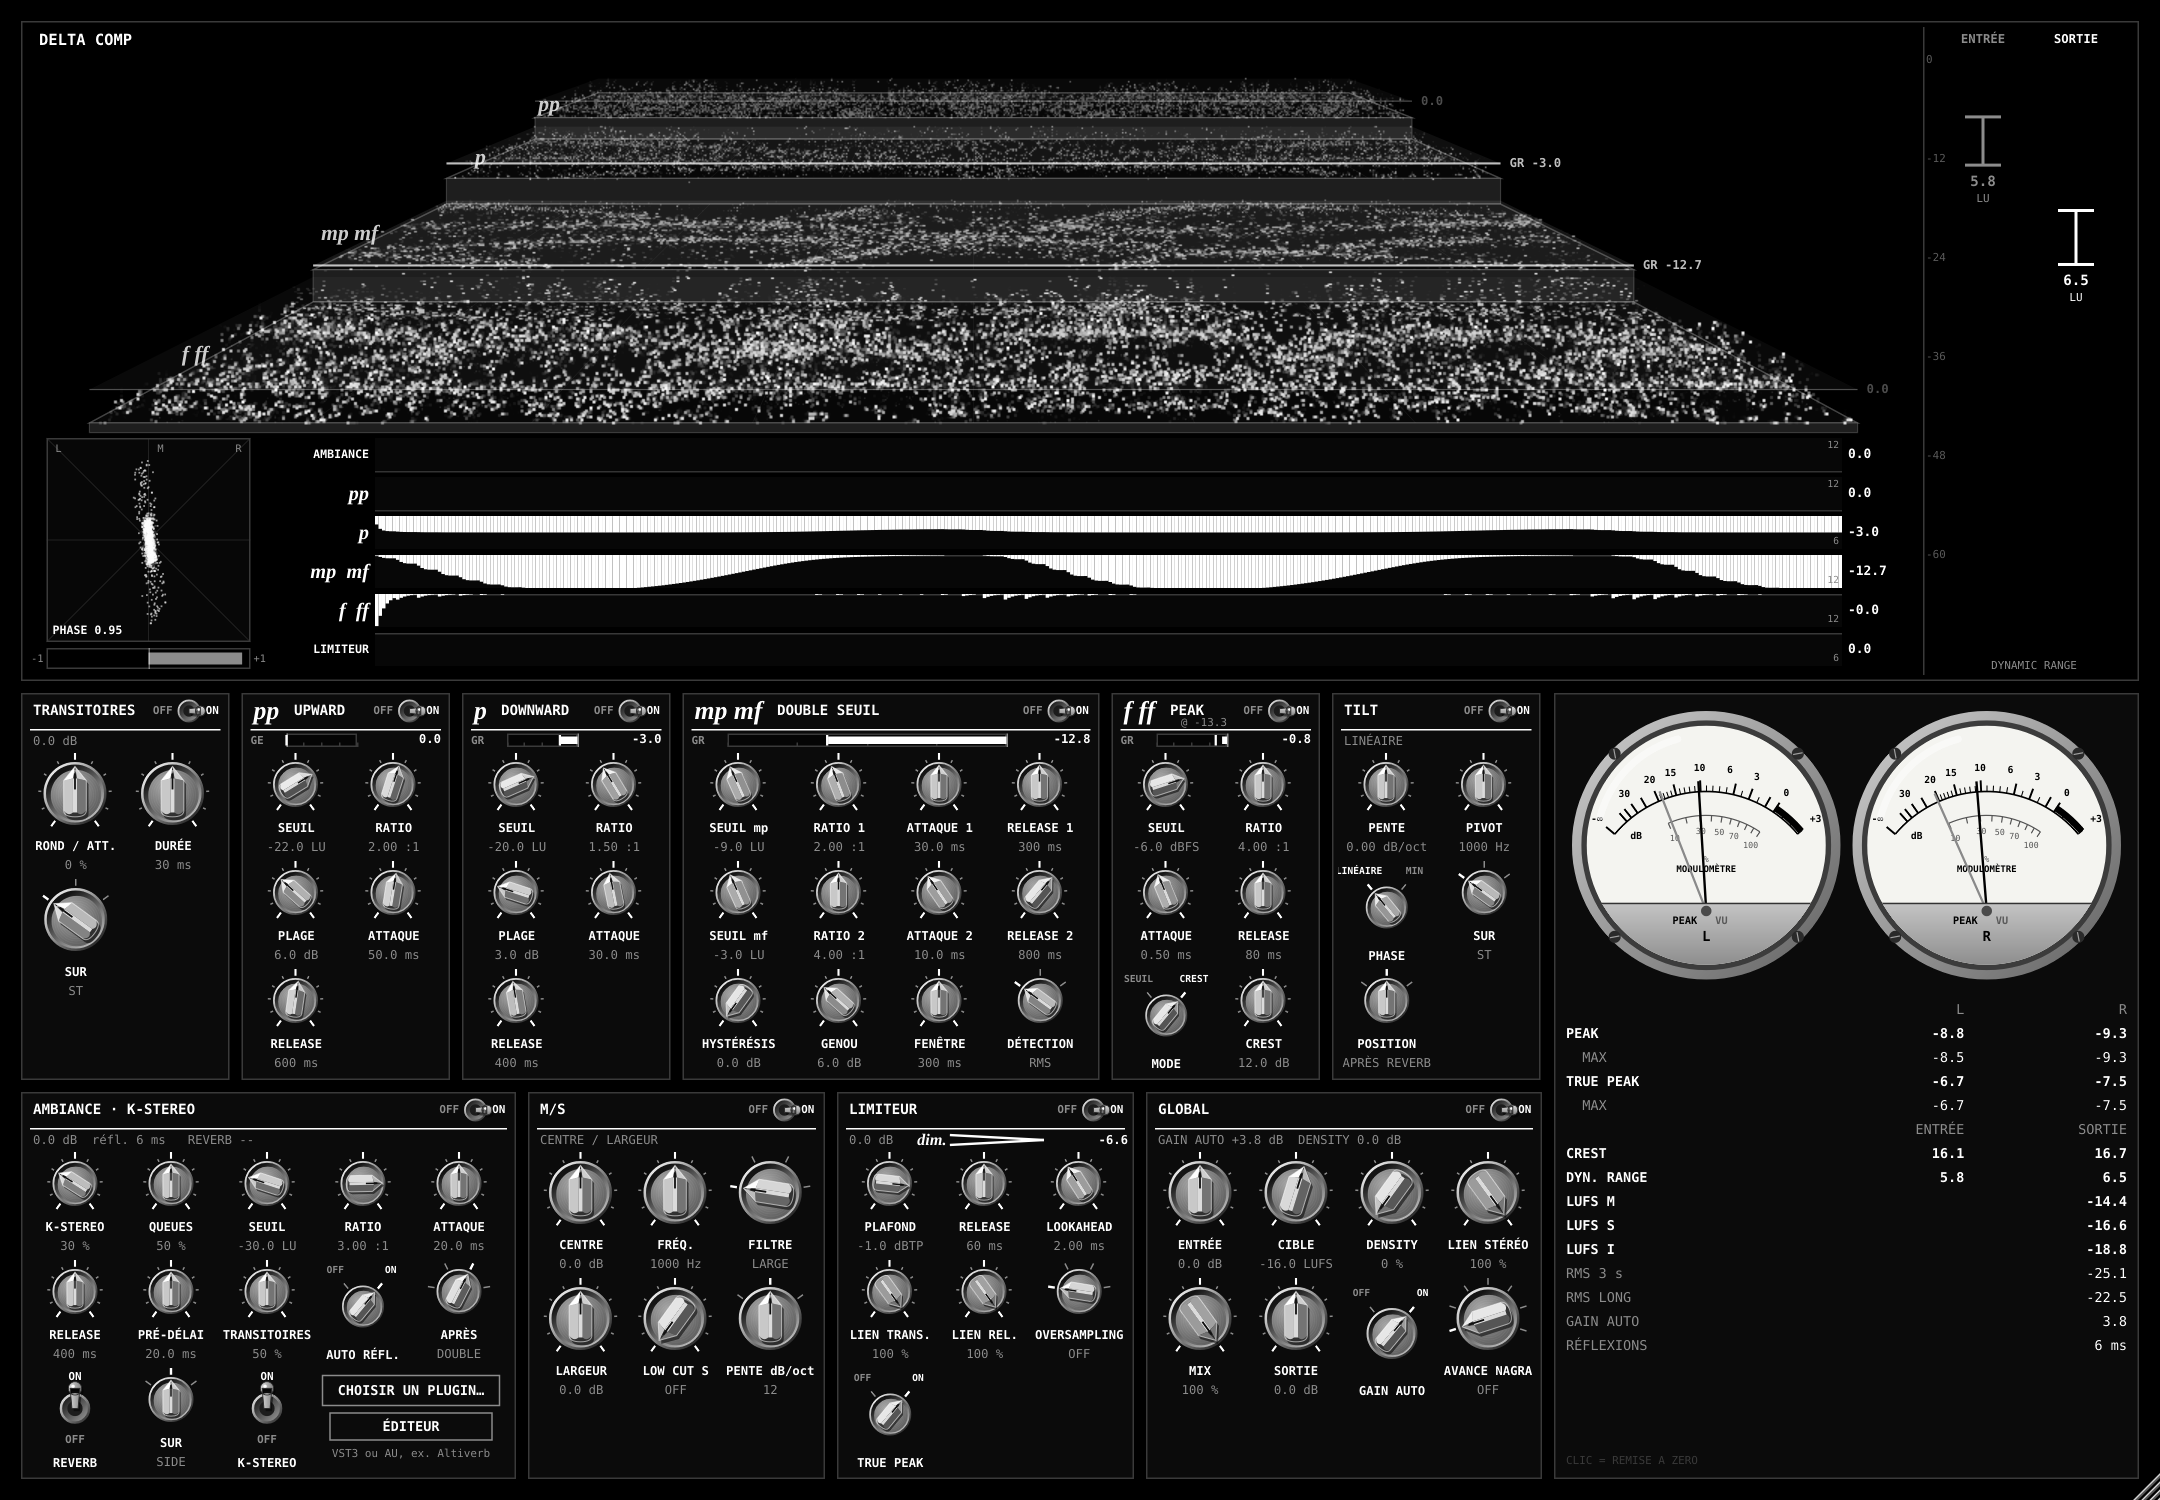
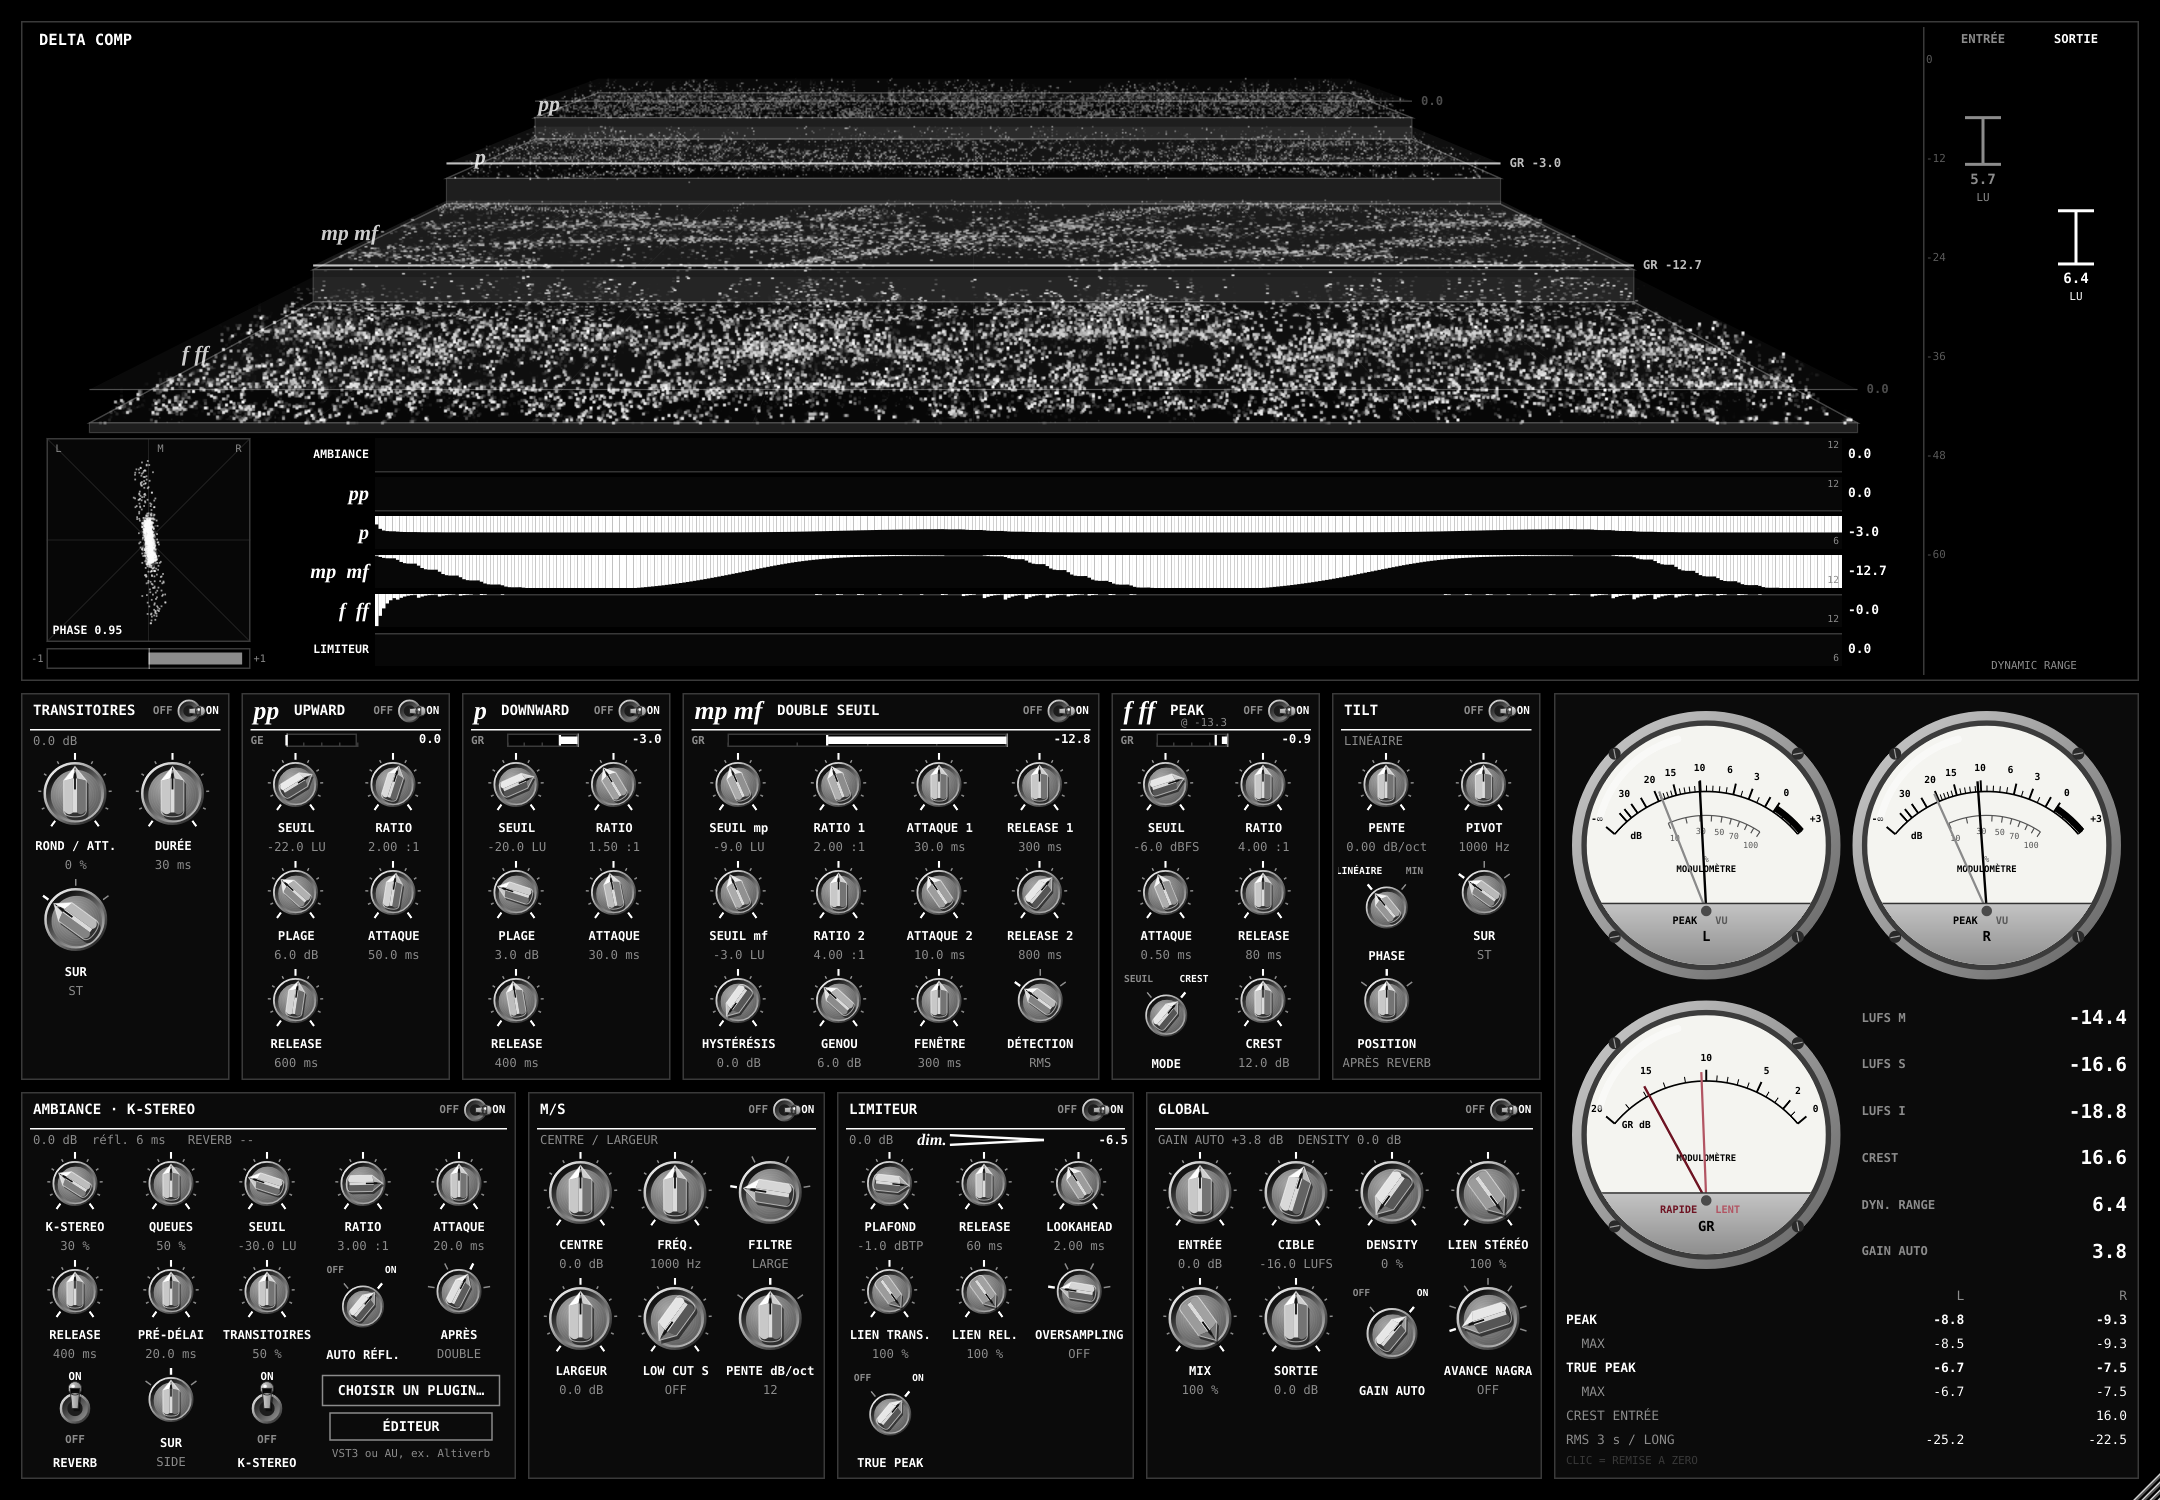
Delta Comp: global GR modulometer (slow and fast burgundy needles), loudness figures beside it
Claude-Session: https://claude.ai/code/session_01VZMc8cQ1mYVxDrpTU41vBi

Changed region(s): [[0.7134, 0.644, 0.8685, 0.92], [0.9616, 0.6747, 0.9926, 0.8893]]

diff --git a/delta-comp/Source/PluginEditor.cpp b/delta-comp/Source/PluginEditor.cpp
@@ -774,6 +774,12 @@ void Meter::tick (float dt)
         cwInPk = cwOutPk = cwInSq = cwOutSq = 0; cwN = 0; cwT = 0;
     }
     for (int c = 0; c < 2; ++c) ppm[c] = jmax (ampDb (m.peak[c]), ppm[c] - 20.0f * dt / 1.7f);   // Nagra peak: 20 dB in 1.7 s
+    {   // global gain reduction (p + mp mf + f ff + limiter): slow needle 300 ms, fast needle instant with the Nagra return
+        auto& eg = proc.engine;
+        const float grNow = jmin (0.0f, eg.meterB.load() + eg.meterC.load() + eg.meterD.load() + eg.meterLim.load());
+        grSlow += (1.0f - std::exp (-dt / 0.3f)) * (grNow - grSlow);
+        grFast = grNow < grFast ? grNow : jmin (0.0f, grFast + 20.0f * dt / 1.7f);
+    }
     holdT += dt;
     for (int c = 0; c < 2; ++c)
     {
@@ -816,7 +822,8 @@ void Meter::mouseDown (const MouseEvent&)
 // Modulometer in the spirit of the Nagra: chrome bezel with screws, white face, dB scale graduated every dB
 // at the top, % modulation scale inside, thick band above 0, plate over the pivot, glass reflection.
 // Black needle = peak (PPM), grey needle = VU (sine calibrated: a steady tone reads the same on both).
-static void drawDial (Graphics& g, Rectangle<float> b, float peakDb, float vuDb, const String& name)
+// gr = true: the global gain reduction modulometer, 0 dB at the right, -20 at the left, burgundy needles
+static void drawDial (Graphics& g, Rectangle<float> b, float peakDb, float vuDb, const String& name, bool gr = false)
 {
     const float R = jmin (b.getWidth(), b.getHeight()) / 2 - 2;
     const auto c = b.getCentre();
@@ -833,7 +840,8 @@ static void drawDial (Graphics& g, Rectangle<float> b, float peakDb, float vuDb,
     const float Rf = R * 0.89f;
     g.setColour (Colour (0xfff4f4f0)); g.fillEllipse (c.x - Rf, c.y - Rf, 2 * Rf, 2 * Rf);
     const Point<float> pv (c.x, c.y + Rf * 0.55f);
-    auto ang = [] (float db) {
+    auto ang = [gr] (float db) {
+        if (gr) return 50.0f - 100.0f * jlimit (0.0f, 1.0f, -db / 20.0f);
         if (db <= -60) return -50.0f;
         const float t = jlimit (0.0f, 1.0f, std::pow (10.0f, (db - 3.0f) / 20.0f));
         return -50.0f + 100.0f * std::pow (t, 0.5f);
@@ -843,8 +851,29 @@ static void drawDial (Graphics& g, Rectangle<float> b, float peakDb, float vuDb,
     g.setColour (kBg);
     Path arc; arc.addCentredArc (pv.x, pv.y, Rs, Rs, 0, degreesToRadians (-50.0f), degreesToRadians (50.0f), true);
     g.strokePath (arc, PathStrokeType (1.1f));
-    Path over; over.addCentredArc (pv.x, pv.y, Rs + 3.0f, Rs + 3.0f, 0, degreesToRadians (ang (0.0f)), degreesToRadians (50.0f), true);
-    g.strokePath (over, PathStrokeType (4.5f));
+    if (! gr)
+    {
+        Path over; over.addCentredArc (pv.x, pv.y, Rs + 3.0f, Rs + 3.0f, 0, degreesToRadians (ang (0.0f)), degreesToRadians (50.0f), true);
+        g.strokePath (over, PathStrokeType (4.5f));
+    }
+    if (gr)
+    {   // GR scale: every dB to -10, every 2 dB to -20
+        for (int db = 0; db >= -20; --db)
+        {
+            if (db < -10 && db % 2 != 0) continue;
+            const bool major = db % 5 == 0 || db == -2;
+            const float a = ang ((float) db);
+            g.drawLine (Line<float> (pt (a, Rs), pt (a, Rs + (major ? 7.5f : 4.0f))), major ? 1.3f : 0.7f);
+        }
+        g.setFont (mono (jmax (7.5f, R * 0.08f), true));
+        for (int db : { 0, -2, -5, -10, -15, -20 })
+        {
+            const auto q = pt (ang ((float) db), Rs + 15.5f);
+            g.drawText (String (-db), Rectangle<float> (q.x - 14, q.y - 6, 28, 12), Justification::centred);
+        }
+    }
+    else
+    {
     // fine graduations: every dB from -20 to +3, every 5 dB below
     for (int db = -40; db <= 3; ++db)
     {
@@ -879,13 +908,14 @@ static void drawDial (Graphics& g, Rectangle<float> b, float peakDb, float vuDb,
         }
     }
     g.drawText ("%", Rectangle<float> (pv.x - 10, pv.y - Ri * 0.62f, 20, 10), Justification::centred);
+    }
     g.setColour (kBg); g.setFont (mono (jmax (7.5f, R * 0.075f), true));
-    g.drawText ("dB", Rectangle<float> (pt (-43.0f, Rs * 0.86f).x - 12, pt (-43.0f, Rs * 0.86f).y - 6, 24, 12), Justification::centred);
+    g.drawText (gr ? "GR dB" : "dB", Rectangle<float> (pt (-43.0f, Rs * 0.86f).x - 16, pt (-43.0f, Rs * 0.86f).y - 6, 32, 12), Justification::centred);
     g.setFont (mono (jmax (7.0f, R * 0.07f), true));
     g.drawText (u8 ("MODULOMÈTRE"), Rectangle<float> (c.x - R, pv.y - Rs * 0.42f, 2 * R, 11), Justification::centred);
     // needles: VU (grey) under peak (black)
-    g.setColour (Colour (0xff8a8a8a)); g.drawLine (Line<float> (pv, pt (ang (vuDb), Rs + 6)), 1.5f);
-    g.setColour (kBg); g.drawLine (Line<float> (pv, pt (ang (peakDb), Rs + 7)), 1.6f);
+    g.setColour (gr ? Colour (0xffb25563) : Colour (0xff8a8a8a)); g.drawLine (Line<float> (pv, pt (ang (vuDb), Rs + 6)), 1.5f);
+    g.setColour (gr ? Colour (0xff6e1423) : kBg); g.drawLine (Line<float> (pv, pt (ang (peakDb), Rs + 7)), 1.6f);
     const float chY = pv.y - 5;
     {
         Graphics::ScopedSaveState ss (g);
@@ -900,8 +930,8 @@ static void drawDial (Graphics& g, Rectangle<float> b, float peakDb, float vuDb,
     }
     g.setColour (Colour (0xff4a4a4a)); g.fillEllipse (pv.x - 3.5f, pv.y - 3.5f, 7.0f, 7.0f);
     g.setFont (mono (jmax (8.0f, R * 0.08f), true));
-    g.setColour (kBg); g.drawText ("PEAK", Rectangle<float> (c.x - 50, chY + 6, 44, 11), Justification::centredRight);
-    g.setColour (Colour (0xff5a5a5a)); g.drawText ("VU", Rectangle<float> (c.x + 6, chY + 6, 44, 11), Justification::centredLeft);
+    g.setColour (gr ? Colour (0xff6e1423) : kBg); g.drawText (gr ? "RAPIDE" : "PEAK", Rectangle<float> (c.x - 50, chY + 6, 44, 11), Justification::centredRight);
+    g.setColour (gr ? Colour (0xffb25563) : Colour (0xff5a5a5a)); g.drawText (gr ? "LENT" : "VU", Rectangle<float> (c.x + 6, chY + 6, 44, 11), Justification::centredLeft);
     g.setColour (kBg); g.setFont (mono (jmax (10.0f, R * 0.12f), true));
     g.drawText (name, Rectangle<float> (c.x - 20, chY + Rf * 0.18f, 40, 16), Justification::centred);
 }
@@ -915,10 +945,27 @@ void Meter::paint (Graphics& g)
     auto dials = r.removeFromTop (r.getWidth() * 0.5f);
     drawDial (g, dials.removeFromLeft (dials.getWidth() * 0.5f).reduced (2), ppm[0], powDb (vuPow[0]) + 3.01f, "L");
     drawDial (g, dials.reduced (2), ppm[1], powDb (vuPow[1]) + 3.01f, "R");
-    r.removeFromTop (8);
-
-    auto f = [] (float db) { return db < -150 ? String (u8 ("-\xe2\x88\x9e")) : String (db, 1); };
+    r.removeFromTop (6);
     auto& e = proc.engine;
+    auto f = [] (float db) { return db < -150 ? String (u8 ("-\xe2\x88\x9e")) : String (db, 1); };
+    {   // second row: the global GR modulometer, and the loudness figures beside it
+        auto row = r.removeFromTop (r.getWidth() * 0.5f);
+        drawDial (g, row.removeFromLeft (row.getWidth() * 0.5f).reduced (2), grFast, grSlow, "GR", true);
+        row.removeFromLeft (10);
+        const std::pair<const char*, String> big[] = {
+            { "LUFS M", f (e.meterM.load()) }, { "LUFS S", f (e.meterS.load()) }, { "LUFS I", f (e.meterI.load()) },
+            { "CREST", String (crestOut, 1) }, { "DYN. RANGE", String (drOut, 1) }, { "GAIN AUTO", String (e.meterMakeup.load(), 1) } };
+        const float bh = row.getHeight() / (float) std::size (big);
+        for (auto& [name, val] : big)
+        {
+            auto line = row.removeFromTop (bh);
+            g.setColour (kGrey); g.setFont (mono (9.5f, true));
+            g.drawText (u8 (name), line.removeFromLeft (line.getWidth() * 0.5f), Justification::centredLeft);
+            g.setColour (kFg); g.setFont (mono (15.0f, true));
+            g.drawText (val, line, Justification::centredRight);
+        }
+    }
+    r.removeFromTop (6);
     struct RowT { const char* name; String a, b; bool strong; };
     const RowT rows[] = {
         { "", "L", "R", false },
@@ -926,22 +973,14 @@ void Meter::paint (Graphics& g)
         { "  MAX", f (peakMax[0]), f (peakMax[1]), false },
         { "TRUE PEAK", f (tpNow[0]), f (tpNow[1]), true },
         { "  MAX", f (tpMax[0]), f (tpMax[1]), false },
-        { "", u8 ("ENTRÉE"), "SORTIE", false },
-        { "CREST", String (crestIn, 1), String (crestOut, 1), true },
-        { "DYN. RANGE", String (drIn, 1), String (drOut, 1), true },
-        { "LUFS M", "", f (e.meterM.load()), true },
-        { "LUFS S", "", f (e.meterS.load()), true },
-        { "LUFS I", "", f (e.meterI.load()), true },
-        { "RMS 3 s", "", f (powDb (rms3Pow) + 3.01f), false },
-        { "RMS LONG", "", f (longN > 0 ? powDb (longSum / (double) longN) + 3.01f : -200.0f), false },
-        { "GAIN AUTO", "", String (e.meterMakeup.load(), 1), false },
-        { "RÉFLEXIONS", "", String (roundToInt (e.meterEr.load())) + " ms", false },
+        { "CREST ENTR\xc3\x89" "E", "", String (crestIn, 1), false },
+        { "RMS 3 s / LONG", f (powDb (rms3Pow) + 3.01f), f (longN > 0 ? powDb (longSum / (double) longN) + 3.01f : -200.0f), false },
     };
-    const float rh = jmin (16.0f, (r.getHeight() - 12) / (float) std::size (rows));
+    const float rh = jmin (16.0f, (r.getHeight() - 10) / (float) std::size (rows));
     for (auto& row : rows)
     {
         auto line = r.removeFromTop (rh);
-        g.setFont (mono (10.5f, row.strong));
+        g.setFont (mono (10.0f, row.strong));
         g.setColour (row.strong ? kFg : kGrey);
         g.drawText (u8 (row.name), line.removeFromLeft (line.getWidth() * 0.42f), Justification::centredLeft);
         g.setColour (row.name[0] == 0 ? kGrey : kFg);

diff --git a/delta-comp/Source/PluginEditor.h b/delta-comp/Source/PluginEditor.h
@@ -134,6 +134,7 @@ struct Meter : juce::Component
     DeltaCompProcessor& proc;
     Sand* sand = nullptr;
     float ppm[2] { -100, -100 }, vuPow[2] {}, rms3Pow = 0;
+    float grSlow = 0, grFast = 0;
     double longSum = 0; long long longN = 0;
     float peakNow[2] { -100, -100 }, tpNow[2] { -100, -100 }, peakMax[2] { -100, -100 }, tpMax[2] { -100, -100 };
     float holdT = 0;
